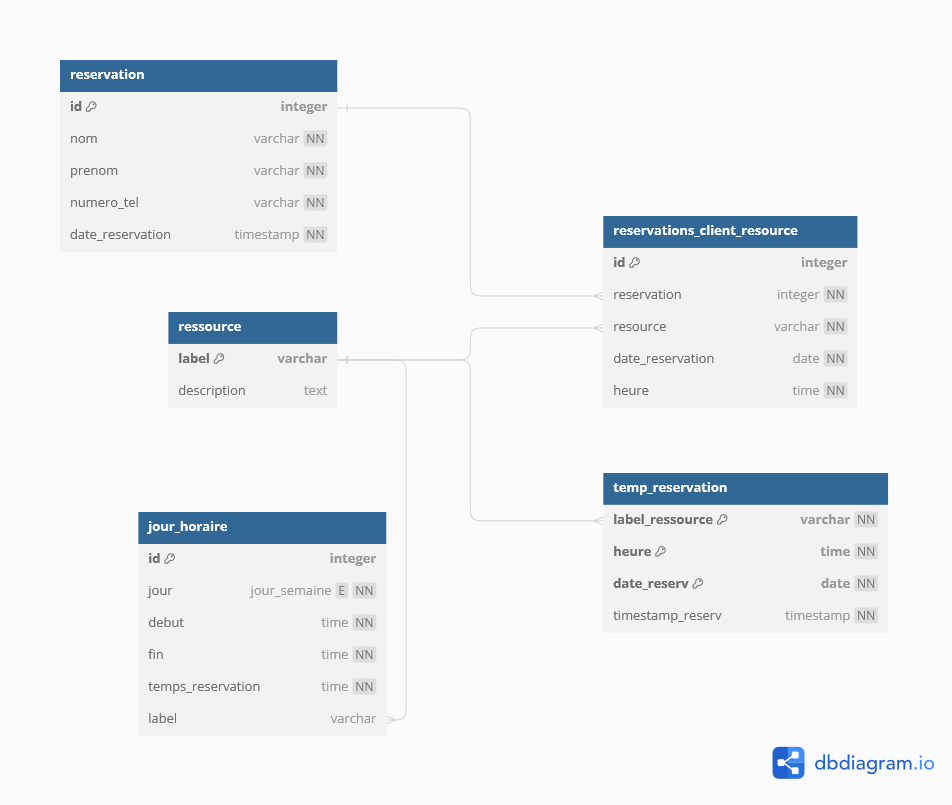
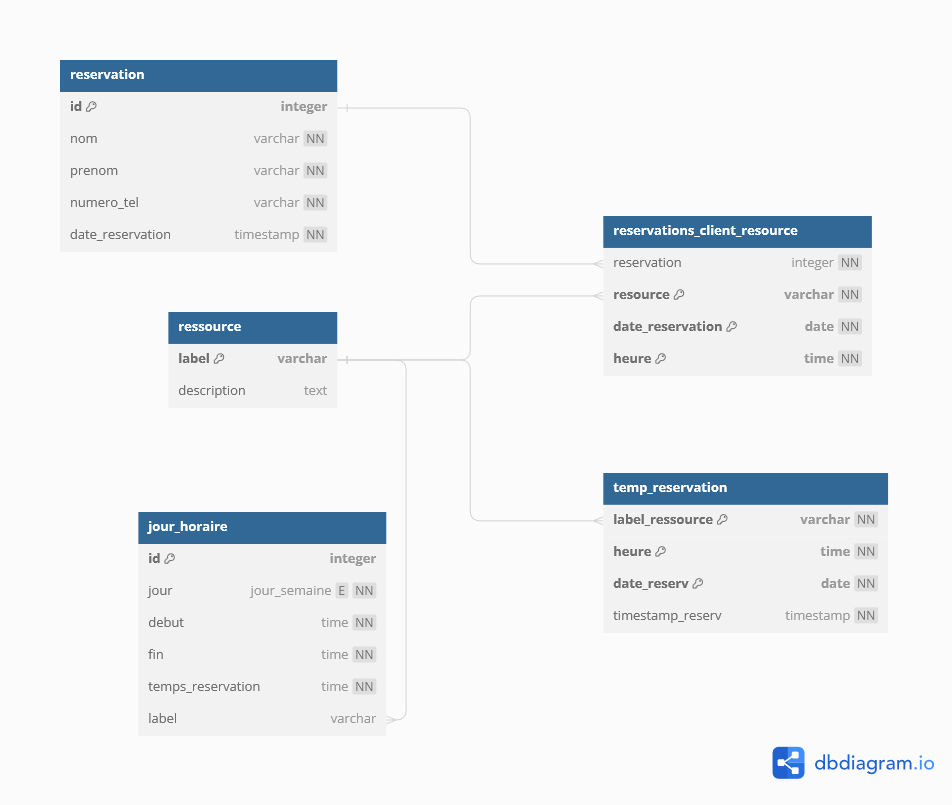
update DB clés primaire + ajout coté client réservation temporaire

diff --git a/projet/chatbot/actions/actions.py b/projet/chatbot/actions/actions.py
@@ -49,7 +49,20 @@ def get_ressource_list()->list[str]:
 
     return []
 
-    
+@staticmethod
+def add_temp_reservation(ressource:str, date_reserv:datetime.date,heure_reserv:datetime.time):
+    try:
+        data = {
+            "ressource":ressource,
+            "heure":heure_reserv,
+            "date_reserv":date_reserv
+        }
+        res = requests.post("http://api:5500/add-temp-reservation/",data=data)
+        return (res.status_code == 200)
+    except Exception as e:
+        print(e)
+        return False
+
 
 @staticmethod
 def get_jours_disponibles(ressource_label: str,nombre_jours:int,heure_prechoisie:datetime.time|None)->list[datetime.date]:
@@ -141,8 +154,6 @@ class ActionSaveRessource(Action):
         ressource = tracker.get_slot("ressource")
         date = tracker.get_slot("date")
         heure = tracker.get_slot("heure")
-        # nom = tracker.get_slot("nom")
-        # prenom = tracker.get_slot("prenom")   
         nom_prenom = str(tracker.get_slot("nom_prenom"))
         nom_prenom_list = nom_prenom.split(' ')
         nom = ""
@@ -199,16 +210,11 @@ class ValidateRessourceForm(FormValidationAction):
         tracker: Tracker,
         domain: DomainDict,
     ) -> Dict[Text, Any]:
-        # print(f"SLOT VALUE{slot_value}")
         if slot_value is not None:
             ressource = str(slot_value).lower()
-            # print(f"RESSOURCE : {ressource}")
-
-            
             if ressource in get_ressource_list():
                 return {"ressource":ressource,"accept_deny":None}
             dispatcher.utter_message(text=f"{ressource} n'existe pas. Veuillez réserver une ressource qui existe")
-            # print("LEAVING FORM")
             return {"ressource":None}
         else:
             dispatcher.utter_message("Veuillez spécifier une ressource")
@@ -318,8 +324,6 @@ class ValidateInfoReserv(FormValidationAction):
             if yes_no:
                 return {"accept_deny":True}
             else:
-                # SlotSet("nom", None)
-                # SlotSet("prenom", None)
                 return {"accept_deny":None,"nom_prenom": None,"numero_tel":None}
         else:
             dispatcher.utter_message("Veuillez répondre oui ou non")
@@ -384,14 +388,12 @@ class ValidateHeuresForm(FormValidationAction):
 
         if  slot_value is not None:
             date = str(date)
-            # dispatcher.utter_message(text=f"Date : {date}")
             # Récupère date parsé par Duckling
             res = requests.post("http://duckling:8000/parse",data=data)
             if res.status_code == 200:
                 res_json = res.json()
                 dim_time_index = -1
                 grain = "day"
-                # dispatcher.utter_message(f"Duckling: {res_json}")
                 # S'assure de trouver une valeur de type temps dans la réponse
                 for index in range(len(res_json)):
                     if res_json[index]["dim"] == "time" and dim_time_index == -1:
@@ -477,7 +479,6 @@ class ValidateHeuresForm(FormValidationAction):
                             dict_horaires_jour : dict[str,dict] = result_query_heures["horaires"]
 
                             found_heure_in_horaire = False
-                            # dispatcher.utter_message(json_message=list_heures_dispo)
                             for day in list_heures_dispo.keys():
                                 if str(heure_datetime.time()) in list_heures_dispo[day] and not found_heure_in_horaire:
                                     found_heure_in_horaire = True
@@ -511,6 +512,10 @@ class ValidateHeuresForm(FormValidationAction):
             yes_no = bool(slot_value)
             # dispatcher.utter_message(f"{yes_no}")
             if yes_no:
+                ressource = str(tracker.get_slot("ressource"))
+                heure = str(tracker.get_slot("heure"))
+                date = str(tracker.get_slot("date"))
+                add_temp_reservation(ressource,heure,date)
                 return {"accept_deny":True}
             else:
                 SlotSet("heure", None)

diff --git a/projet/api/server.py b/projet/api/server.py
@@ -128,11 +128,10 @@ class Reservation(Base):
 
 class Reservations_Client_Resource(Base):
     __tablename__ = 'reservations_client_resource'
-    id = Column(Integer(),primary_key=True,autoincrement="auto")
-    reservation = Column(Integer(),ForeignKey('reservation.id'), nullable=False)
-    resource = Column(VARCHAR(),ForeignKey('ressource.label'),nullable=False)
-    date_reservation = Column(Date(),nullable=False)
-    heure = Column(Time(),nullable=False)
+    reservation = Column(Integer(),ForeignKey('reservation.id'),  nullable=False)
+    resource = Column(VARCHAR(),ForeignKey('ressource.label'),primary_key=True,nullable=False)
+    date_reservation = Column(Date(),primary_key=True,nullable=False)
+    heure = Column(Time(),primary_key=True,nullable=False)
 
 class Temp_Reservation(Base):
     __tablename__ = 'temp_reservation'
@@ -307,7 +306,7 @@ async def add_reservation(data:Reservation_API):
                 session.add(reservation_ressource)
                 session.flush()
                 session.refresh(reservation_ressource)
-                output_reserv_ressource = {"id": reservation_ressource.id,"heure": reservation_ressource.heure,"date_reservation": reservation_ressource.date_reservation,"ressource": reservation_ressource.resource,"date_reservation": reservation_ressource.date_reservation}
+                output_reserv_ressource = {"heure": reservation_ressource.heure,"date_reservation": reservation_ressource.date_reservation,"ressource": reservation_ressource.resource,"date_reservation": reservation_ressource.date_reservation}
             return JSONResponse(content={
                     "message":"Réservation ajoutée",
                     "data":{"reservation":jsonable_encoder(output_reserv),"reservation_ressource":jsonable_encoder(output_reserv_ressource)}
